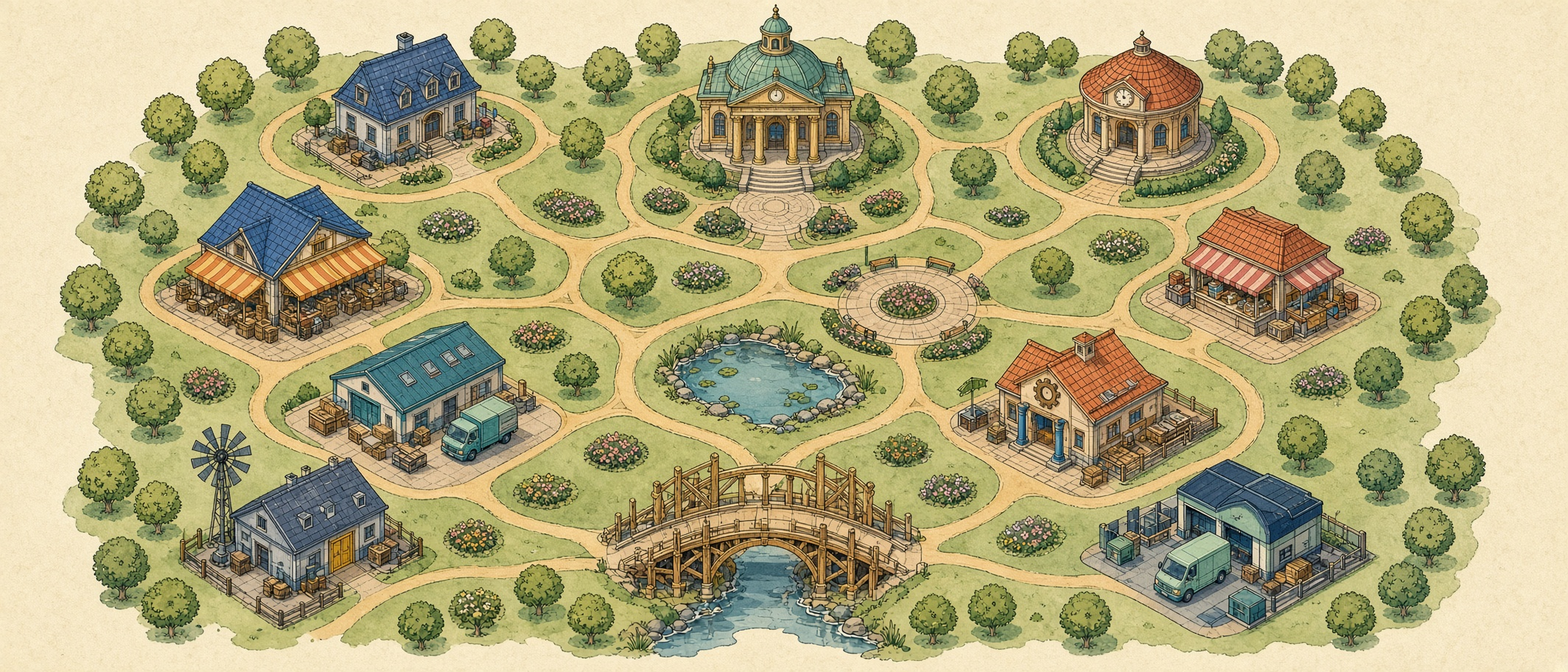
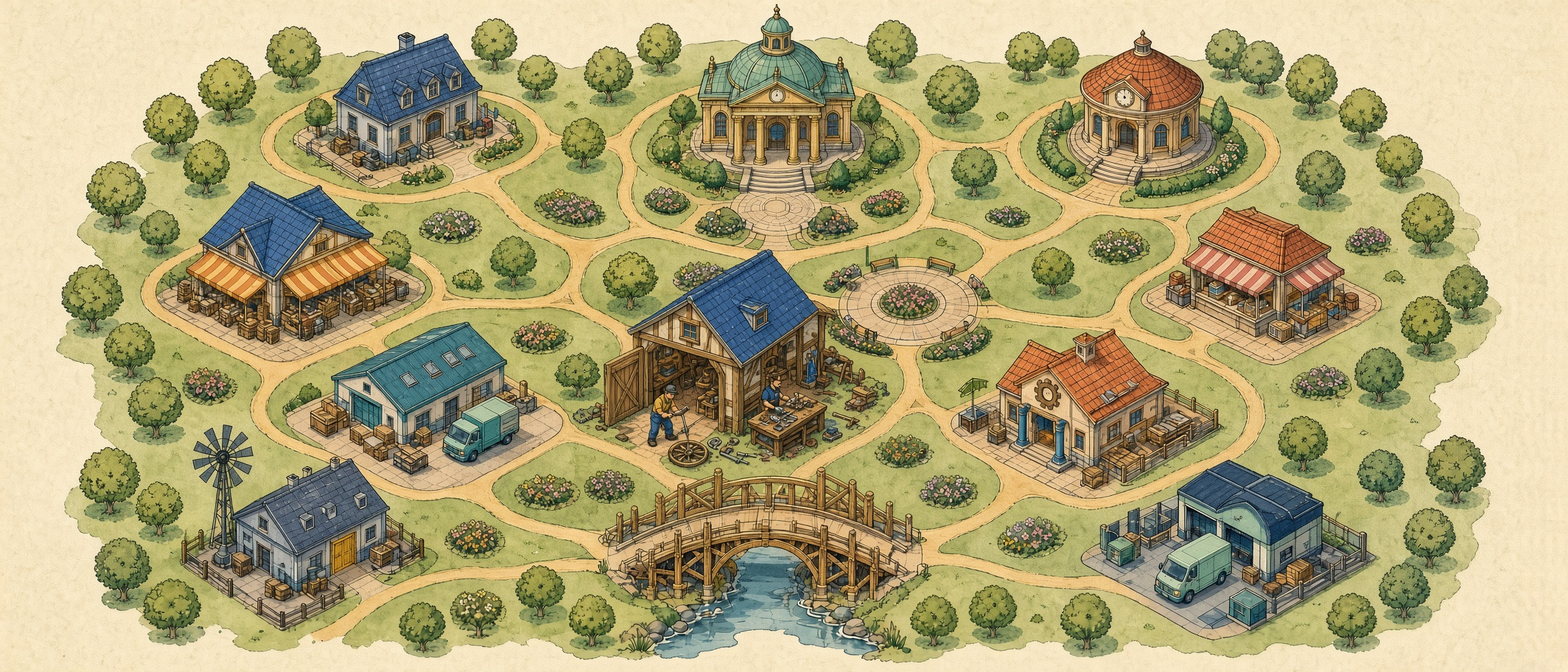
Keep master-data markers off the buildings and give the city a synthwave look.

Changed region(s): [[0.031, 0.0307, 0.9615, 1.0]]

diff --git a/src/components/city-map.tsx b/src/components/city-map.tsx
@@ -44,48 +44,63 @@ const SHORT: Record<string, string> = {
   project: "Projects",
 };
 const VILLAGE_PLOTS: Plot[] = [
-  { id: "rnd", cx: 22, cy: 10, w: 14, h: 16 },
-  { id: "finance", cx: 50, cy: 13, w: 16, h: 16 },
-  { id: "hr", cx: 74, cy: 13, w: 14, h: 16 },
-  { id: "procurement", cx: 16, cy: 32, w: 14, h: 16 },
+  { id: "rnd", cx: 27, cy: 18, w: 14, h: 16 },
+  { id: "finance", cx: 50, cy: 16, w: 16, h: 16 },
+  { id: "hr", cx: 73, cy: 18, w: 14, h: 16 },
+  { id: "procurement", cx: 17, cy: 38, w: 14, h: 16 },
   { id: "sales", cx: 82, cy: 38, w: 14, h: 16 },
-  { id: "supply", cx: 27, cy: 55, w: 14, h: 16 },
-  { id: "manufacturing", cx: 66, cy: 58, w: 16, h: 18 },
-  { id: "asset", cx: 40, cy: 70, w: 14, h: 14 },
-  { id: "service", cx: 79, cy: 72, w: 14, h: 16 },
-  { id: "project", cx: 14, cy: 76, w: 13, h: 16 },
+  { id: "supply", cx: 27, cy: 56, w: 14, h: 16 },
+  { id: "manufacturing", cx: 68, cy: 54, w: 14, h: 16 },
+  { id: "asset", cx: 46, cy: 50, w: 14, h: 16 },
+  { id: "service", cx: 80, cy: 74, w: 14, h: 16 },
+  { id: "project", cx: 16, cy: 76, w: 13, h: 16 },
 ];
 
-/** Same stations, placed on the industrial city drawing. */
+/** Same stations, placed on the synthwave city drawing. */
 const CITY_PLOTS: Plot[] = [
-  { id: "rnd", cx: 19, cy: 18, w: 18, h: 18 },
-  { id: "finance", cx: 51, cy: 16, w: 16, h: 18 },
-  { id: "hr", cx: 80, cy: 16, w: 14, h: 18 },
-  { id: "procurement", cx: 36, cy: 38, w: 16, h: 16 },
-  { id: "sales", cx: 63, cy: 40, w: 14, h: 16 },
-  { id: "supply", cx: 24, cy: 54, w: 18, h: 16 },
-  { id: "manufacturing", cx: 73, cy: 58, w: 16, h: 16 },
-  { id: "asset", cx: 43, cy: 63, w: 12, h: 14 },
-  { id: "service", cx: 87, cy: 70, w: 14, h: 16 },
-  { id: "project", cx: 11, cy: 76, w: 14, h: 16 },
+  { id: "rnd", cx: 29, cy: 22, w: 16, h: 16 },
+  { id: "finance", cx: 50, cy: 16, w: 14, h: 16 },
+  { id: "hr", cx: 70, cy: 20, w: 14, h: 16 },
+  { id: "procurement", cx: 18, cy: 44, w: 14, h: 14 },
+  { id: "sales", cx: 65, cy: 50, w: 12, h: 14 },
+  { id: "supply", cx: 30, cy: 64, w: 12, h: 12 },
+  { id: "manufacturing", cx: 84, cy: 40, w: 14, h: 16 },
+  { id: "asset", cx: 42, cy: 46, w: 14, h: 14 },
+  { id: "service", cx: 80, cy: 68, w: 14, h: 14 },
+  { id: "project", cx: 22, cy: 70, w: 12, h: 14 },
 ];
 
-const CITY_TREES: Record<string, { cx: number; cy: number }> = {
-  rnd: { cx: 31, cy: 24 },
-  finance: { cx: 40, cy: 22 },
-  people: { cx: 70, cy: 22 },
-  procurement: { cx: 27, cy: 42 },
-  sales: { cx: 73, cy: 44 },
-  supply: { cx: 14, cy: 58 },
-  mfg: { cx: 62, cy: 64 },
-  maint: { cx: 35, cy: 68 },
-  service: { cx: 78, cy: 76 },
-  project: { cx: 20, cy: 84 },
+/** Bases of the markers, on open ground, not on the roofs. */
+const VILLAGE_TREES: Record<string, { cx: number; cy: number }> = {
+  rnd: { cx: 36, cy: 28 },
+  finance: { cx: 42, cy: 28 },
+  people: { cx: 64, cy: 28 },
+  procurement: { cx: 26, cy: 46 },
+  sales: { cx: 74, cy: 46 },
+  supply: { cx: 36, cy: 64 },
+  mfg: { cx: 60, cy: 62 },
+  maint: { cx: 55, cy: 58 },
+  service: { cx: 70, cy: 82 },
+  project: { cx: 26, cy: 84 },
 };
 
-const ROOMS: Record<string, { src: string; spots: Spot[] }> = {
+const CITY_BEACONS: Record<string, { cx: number; cy: number }> = {
+  rnd: { cx: 38, cy: 30 },
+  finance: { cx: 42, cy: 28 },
+  people: { cx: 62, cy: 30 },
+  procurement: { cx: 26, cy: 50 },
+  sales: { cx: 72, cy: 56 },
+  supply: { cx: 36, cy: 70 },
+  mfg: { cx: 76, cy: 48 },
+  maint: { cx: 50, cy: 52 },
+  service: { cx: 72, cy: 74 },
+  project: { cx: 16, cy: 78 },
+};
+
+const ROOMS: Record<string, { src: string; city: string; spots: Spot[] }> = {
   finance: {
     src: "/art/room-finance.jpg",
+    city: "/art/city-room-finance.jpg",
     spots: [
       { id: "fin-uj", x: 16, y: 52 },
       { id: "fin-gl", x: 34, y: 64 },
@@ -99,6 +114,7 @@ const ROOMS: Record<string, { src: string; spots: Spot[] }> = {
   },
   rnd: {
     src: "/art/room-rnd.jpg",
+    city: "/art/city-room-rnd.jpg",
     spots: [
       { id: "rd-mat", x: 9, y: 48 },
       { id: "rd-plm", x: 20, y: 42 },
@@ -108,6 +124,7 @@ const ROOMS: Record<string, { src: string; spots: Spot[] }> = {
   },
   procurement: {
     src: "/art/room-procurement.jpg",
+    city: "/art/city-room-procurement.jpg",
     spots: [
       { id: "pr-op", x: 16, y: 52 },
       { id: "pr-src", x: 46, y: 46 },
@@ -118,6 +135,7 @@ const ROOMS: Record<string, { src: string; spots: Spot[] }> = {
   },
   supply: {
     src: "/art/room-supply.jpg",
+    city: "/art/city-room-supply.jpg",
     spots: [
       { id: "sc-im", x: 18, y: 46 },
       { id: "sc-ewm", x: 48, y: 48 },
@@ -128,6 +146,7 @@ const ROOMS: Record<string, { src: string; spots: Spot[] }> = {
   },
   manufacturing: {
     src: "/art/room-manufacturing.jpg",
+    city: "/art/city-room-manufacturing.jpg",
     spots: [
       { id: "pp-eng", x: 16, y: 34 },
       { id: "pp-mrp", x: 22, y: 64 },
@@ -139,6 +158,7 @@ const ROOMS: Record<string, { src: string; spots: Spot[] }> = {
   },
   sales: {
     src: "/art/room-sales.jpg",
+    city: "/art/city-room-sales.jpg",
     spots: [
       { id: "sd-so", x: 16, y: 50 },
       { id: "sd-pr", x: 48, y: 40 },
@@ -149,6 +169,7 @@ const ROOMS: Record<string, { src: string; spots: Spot[] }> = {
   },
   service: {
     src: "/art/room-service.jpg",
+    city: "/art/city-room-service.jpg",
     spots: [
       { id: "sv-ord", x: 18, y: 55 },
       { id: "sv-ih", x: 48, y: 50 },
@@ -157,6 +178,7 @@ const ROOMS: Record<string, { src: string; spots: Spot[] }> = {
   },
   asset: {
     src: "/art/room-asset.jpg",
+    city: "/art/city-room-asset.jpg",
     spots: [
       { id: "am-req", x: 16, y: 46 },
       { id: "am-pm", x: 50, y: 55 },
@@ -165,6 +187,7 @@ const ROOMS: Record<string, { src: string; spots: Spot[] }> = {
   },
   hr: {
     src: "/art/room-hr.jpg",
+    city: "/art/city-room-hr.jpg",
     spots: [
       { id: "hr-core", x: 16, y: 50 },
       { id: "hr-time", x: 46, y: 52 },
@@ -174,6 +197,7 @@ const ROOMS: Record<string, { src: string; spots: Spot[] }> = {
   },
   project: {
     src: "/art/room-project.jpg",
+    city: "/art/city-room-project.jpg",
     spots: [
       { id: "ps-plan", x: 18, y: 46 },
       { id: "ps-fin", x: 50, y: 50 },
@@ -486,7 +510,7 @@ export function CityMap() {
         onPointerCancel={onPointerUp}
       >
         <img
-          src={room ? room.src : layout === "city" ? "/art/city-map.jpg" : "/art/campus-map.jpg"}
+          src={room ? (layout === "city" ? room.city : room.src) : layout === "city" ? "/art/city-map.jpg" : "/art/campus-map.jpg"}
           alt={wing ? `${wing.name} interior` : "Illustrated neighborhood of the S/4HANA campus"}
           draggable={false}
           width={worldW}
@@ -530,7 +554,7 @@ export function CityMap() {
 
         {!inside &&
           masterTrees.map((tree) => {
-            const spot = layout === "city" ? CITY_TREES[tree.id] : undefined;
+            const spot = (layout === "city" ? CITY_BEACONS : VILLAGE_TREES)[tree.id];
             const pos = toScreen(((spot?.cx ?? tree.cx) / 100) * MAP_W, ((spot?.cy ?? tree.cy) / 100) * MAP_H);
             const hot = treeHover === tree.id || masterId === tree.id;
             return (
@@ -541,6 +565,7 @@ export function CityMap() {
                 scale={cam.s}
                 sign={tree.sign}
                 hot={hot}
+                variant={layout === "city" ? "beacon" : "tree"}
                 onOpen={() => {
                   setTreeHover(null);
                   setHover(null);

diff --git a/src/components/apple-tree.tsx b/src/components/apple-tree.tsx
@@ -1,6 +1,8 @@
-/** Drawn height on the campus map, in map pixels. Sprite is 436×520. */
-const TREE_H = 118;
+/** Drawn height on the campus map, in map pixels. */
+const TREE_H = 74;
 const TREE_W = TREE_H * (436 / 520);
+const BEACON_H = 78;
+const BEACON_W = BEACON_H * (80 / 150);
 
 type AppleTreeProps = {
   left: number;
@@ -8,24 +10,25 @@ type AppleTreeProps = {
   scale: number;
   sign: string;
   hot: boolean;
+  variant?: "tree" | "beacon";
   onOpen: () => void;
   onHover: () => void;
   onLeave: () => void;
 };
 
-export function AppleTree({ left, top, scale, sign, hot, onOpen, onHover, onLeave }: AppleTreeProps) {
-  const width = TREE_W * scale;
-  const height = TREE_H * scale;
+export function AppleTree({ left, top, scale, sign, hot, variant = "tree", onOpen, onHover, onLeave }: AppleTreeProps) {
+  const width = (variant === "beacon" ? BEACON_W : TREE_W) * scale;
+  const height = (variant === "beacon" ? BEACON_H : TREE_H) * scale;
   return (
     <button
       type="button"
-      className="absolute z-[15] overflow-visible"
+      className="absolute z-[12] overflow-visible"
       style={{
         left,
         top,
         width,
         height,
-        transform: "translate(-50%, -92%)",
+        transform: "translate(-50%, -100%)",
       }}
       aria-label={`${sign}. Master data.`}
       onPointerDown={(event) => event.stopPropagation()}
@@ -36,22 +39,30 @@ export function AppleTree({ left, top, scale, sign, hot, onOpen, onHover, onLeav
       onPointerEnter={onHover}
       onPointerLeave={onLeave}
     >
-      <img
-        src={hot ? "/art/apple-tree-hot.png" : "/art/apple-tree.png"}
-        alt=""
-        draggable={false}
-        className="h-full w-full object-contain drop-shadow-[0_1px_0_rgba(70,55,30,0.15)]"
-      />
-      {hot && (
-        <span className="pointer-events-none absolute top-0 left-1/2 z-10 flex -translate-x-1/2 -translate-y-[70%] flex-col items-center">
-          <span className="rounded-full bg-paper-2/95 px-2 py-0.5 text-center text-[11px] leading-tight font-bold whitespace-nowrap text-ink shadow-sm">
+      {variant === "beacon" ? (
+        <img src="/art/neon-beacon.svg" alt="" draggable={false} className={`h-full w-full object-contain ${hot ? "brightness-125" : ""}`} />
+      ) : (
+        <img
+          src={hot ? "/art/apple-tree-hot.png" : "/art/apple-tree.png"}
+          alt=""
+          draggable={false}
+          className="h-full w-full object-contain"
+        />
+      )}
+      <span className="pointer-events-none absolute top-full left-1/2 z-10 mt-0.5 flex -translate-x-1/2 flex-col items-center">
+        <span
+          className={`max-w-36 rounded-full px-2 py-0.5 text-center text-[11px] leading-tight font-bold ${
+            variant === "beacon" ? "bg-[#1b1224]/90 text-[#f6e7ff]" : "bg-paper-2/95 text-ink"
+          }`}
+        >
+          {sign}
+        </span>
+        {hot && (
+          <span className="mt-0.5 rounded-full bg-ink px-2 py-0.5 text-[10px] font-bold whitespace-nowrap text-paper">
             Master data
           </span>
-          <span className="mt-0.5 max-w-40 rounded-full bg-ink/90 px-2 py-0.5 text-center text-[10px] leading-tight font-semibold text-paper">
-            {sign}
-          </span>
-        </span>
-      )}
+        )}
+      </span>
     </button>
   );
 }
